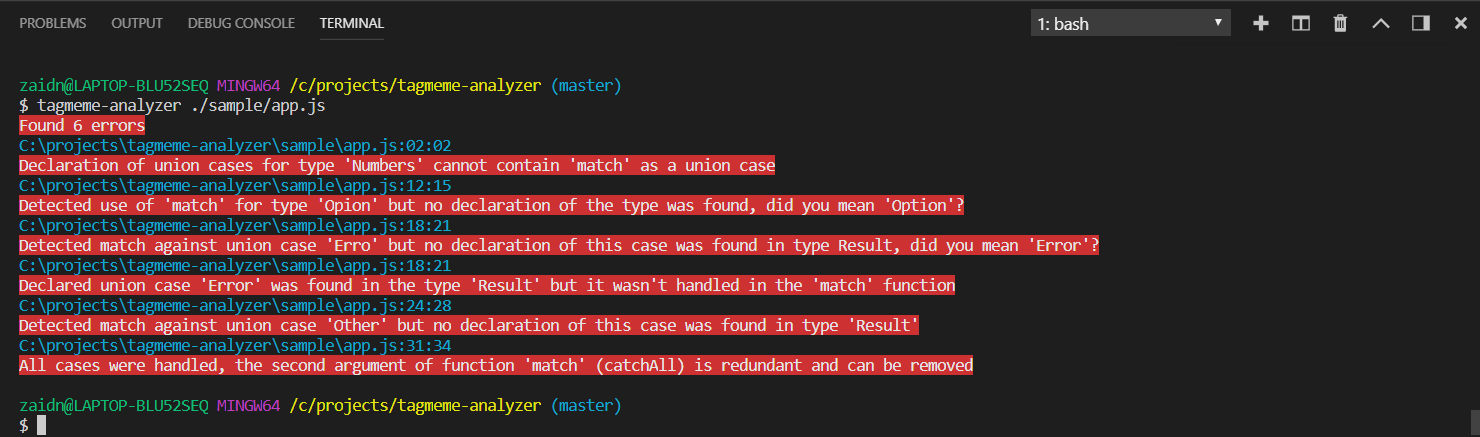
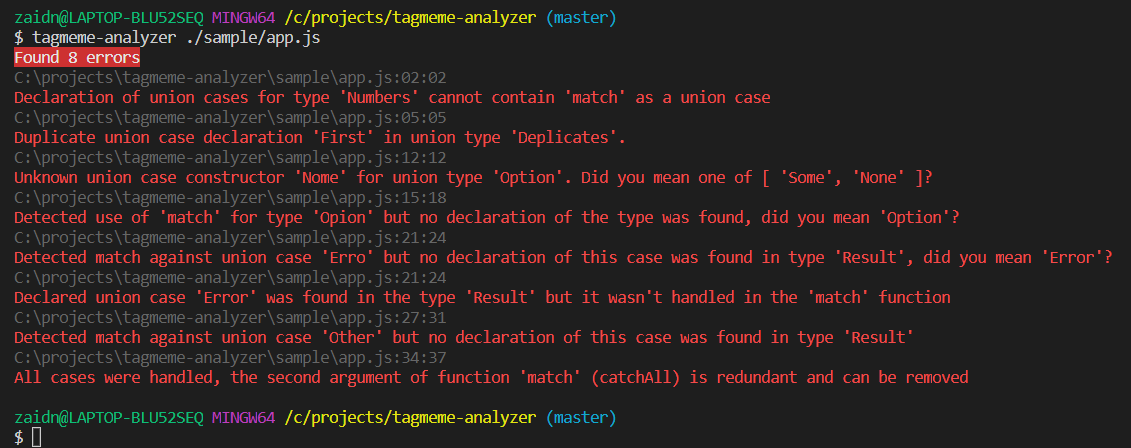
Analyze union type constructors and detect errors, update docs

diff --git a/analyzer.js b/analyzer.js
@@ -13,7 +13,8 @@ const AnalyzerError = union([
     'UnionCaseHandledButNotDeclared',
     'RedundantCatchAllArgument',
     'UsingMatchAsUnionCase',
-    'DuplicateUnionCaseDeclaration'
+    'DuplicateUnionCaseDeclaration',
+    'UnknownUnionConstructorUsed'
 ]); 
 
 // detects when the 'union' function is imported from tagmeme in ES6 syntax
@@ -176,6 +177,47 @@ var groupBy = function(xs, f) {
     }, {});
 };
 
+const findIncorrectUnionCaseConstructors = function(modulePath, ast, declarations) {
+    const unionConstructorsErrors = [ ];
+    const unionTypeNames = declarations.map(decl => decl.unionType);
+
+    traverse(ast, {
+        enter: function(path) {
+            const node = path.node;
+
+            const isUnionTypeConstructor = 
+                   node.type === "CallExpression"
+                && node.callee.type === "MemberExpression"
+                && node.callee.object.type === "Identifier"
+                && unionTypeNames.indexOf(node.callee.object.name) !== -1
+                && node.callee.property.type === "Identifier"
+                && node.callee.property.name !== "match";
+
+            if (isUnionTypeConstructor) {
+                const unionDeclarations = declarations.filter(decl => decl.unionType === node.callee.object.name);
+                const usedUnionDeclaration = unionDeclarations[0];
+                const allowedCases = usedUnionDeclaration.cases; 
+                const usedConstructor = node.callee.property.name;
+                if (allowedCases.indexOf(usedConstructor) === -1) {
+                    const possibleAlternativeString = allowedCases.map(caseName => "'" + caseName + "'").join(", ");
+
+                    const error = AnalyzerError.UnknownUnionConstructorUsed({
+                        modulePath: modulePath, 
+                        location: node.loc, 
+                        possibleAlternatives: allowedCases,
+                        usedConstructor: usedConstructor,
+                        errorMessage: "Unknown union case constructor '" + usedConstructor + "' for union type '" + usedUnionDeclaration.unionType + "'. Did you mean one of [ " + possibleAlternativeString + " ]?"
+                    })
+
+                    unionConstructorsErrors.push(error);
+                }
+            }
+        }
+    })
+
+    return unionConstructorsErrors;
+}
+
 const findDuplicateUnionCaseDeclarations = function (modulePath, declaration) {
     const errors = [];
     const groups = groupBy(declaration.cases, caseName => caseName);
@@ -228,6 +270,12 @@ const analyze = function (cwd, filename, syncReader) {
             errors.push(error);
         })
     });
+
+    const constructorErrors = findIncorrectUnionCaseConstructors(fullPath, codeAst, unionDeclarations);
+
+    constructorErrors.forEach(error => {
+        errors.push(error);
+    })
 
     for (var i = 0; i < matchUsages.length; i++) {
         const currentUsage = matchUsages[i];
@@ -333,7 +381,7 @@ const analyze = function (cwd, filename, syncReader) {
  
                         } else {
 
-                            const possibleWords = nearbyWords.join(", ");
+                            const possibleWords = nearbyWords.map(word => "'" + word + "'").join(", ");
 
                             errors.push(AnalyzerError.UnionCaseHandledButNotDeclared({ 
                                 modulePath: fullPath, 
@@ -341,7 +389,7 @@ const analyze = function (cwd, filename, syncReader) {
                                 usedUnionType: declaredUnion.unionType,
                                 usedUnionCase: currentKey, 
                                 possibleAlternatives: nearbyWords,
-                                errorMessage: "Detected match against union case '" + currentKey + "' but no declaration of this case was found in type" + declaredUnion.unionType + ", did you mean '" + possibleWords + "'?"
+                                errorMessage: "Detected match against union case '" + currentKey + "' but no declaration of this case was found in type" + declaredUnion.unionType + ", did you mean one of [ " + possibleWords + " ]?"
                             }));
                         }
 

diff --git a/test/analyzer-tests.js b/test/analyzer-tests.js
@@ -283,7 +283,7 @@ describe("Analyzer", function() {
             const code = [ 
                 "import { union as makeUnion } from 'tagmeme';",
                 "const Result = makeUnion([ 'Erro', 'Error' ]);",
-                "const success = Result.Ok(1);",
+                "const success = Result.Erro(1);",
                 // Error => handling too many cases, the 'Other' case in not declared in the `Result`
                 "const value = Result.match(success, { Erro: n => n + 1, Error: () => 1, Erron: () => 3 })"
             ];

diff --git a/sample/app.js b/sample/app.js
@@ -8,6 +8,9 @@ const colorValue = Option.match(color, {
     None: () => 'blue'
 });
 
+// Incorrect union constructor
+const invalid = Option.Nome();
+
 // Type name misspelled: 'Option' => 'Opion'
 const otherValue = Opion.match(color, {
     Some: colorName => colorName, 

diff --git a/README.md b/README.md
@@ -52,6 +52,9 @@ const colorValue = Option.match(color, {
     None: () => 'blue'
 });
 
+// Incorrect union constructor
+const invalid = Option.Nome();
+
 // Type name misspelled: 'Option' => 'Opion'
 const otherValue = Opion.match(color, {
     Some: colorName => colorName, 
@@ -82,5 +85,7 @@ Now running `tagmeme-analyzer` against `{repo}/sample/app.js` gives the followin
 ![example](example.png)
 
 ### Current Limitations (PRs <=> :heart:) 
+ - Analyzer runs against one root file (local imports are traversed)
  - Imported union type declarations cannot be aliased
  - Only ES6 exports for now
+ - Types of union case data are not checked
